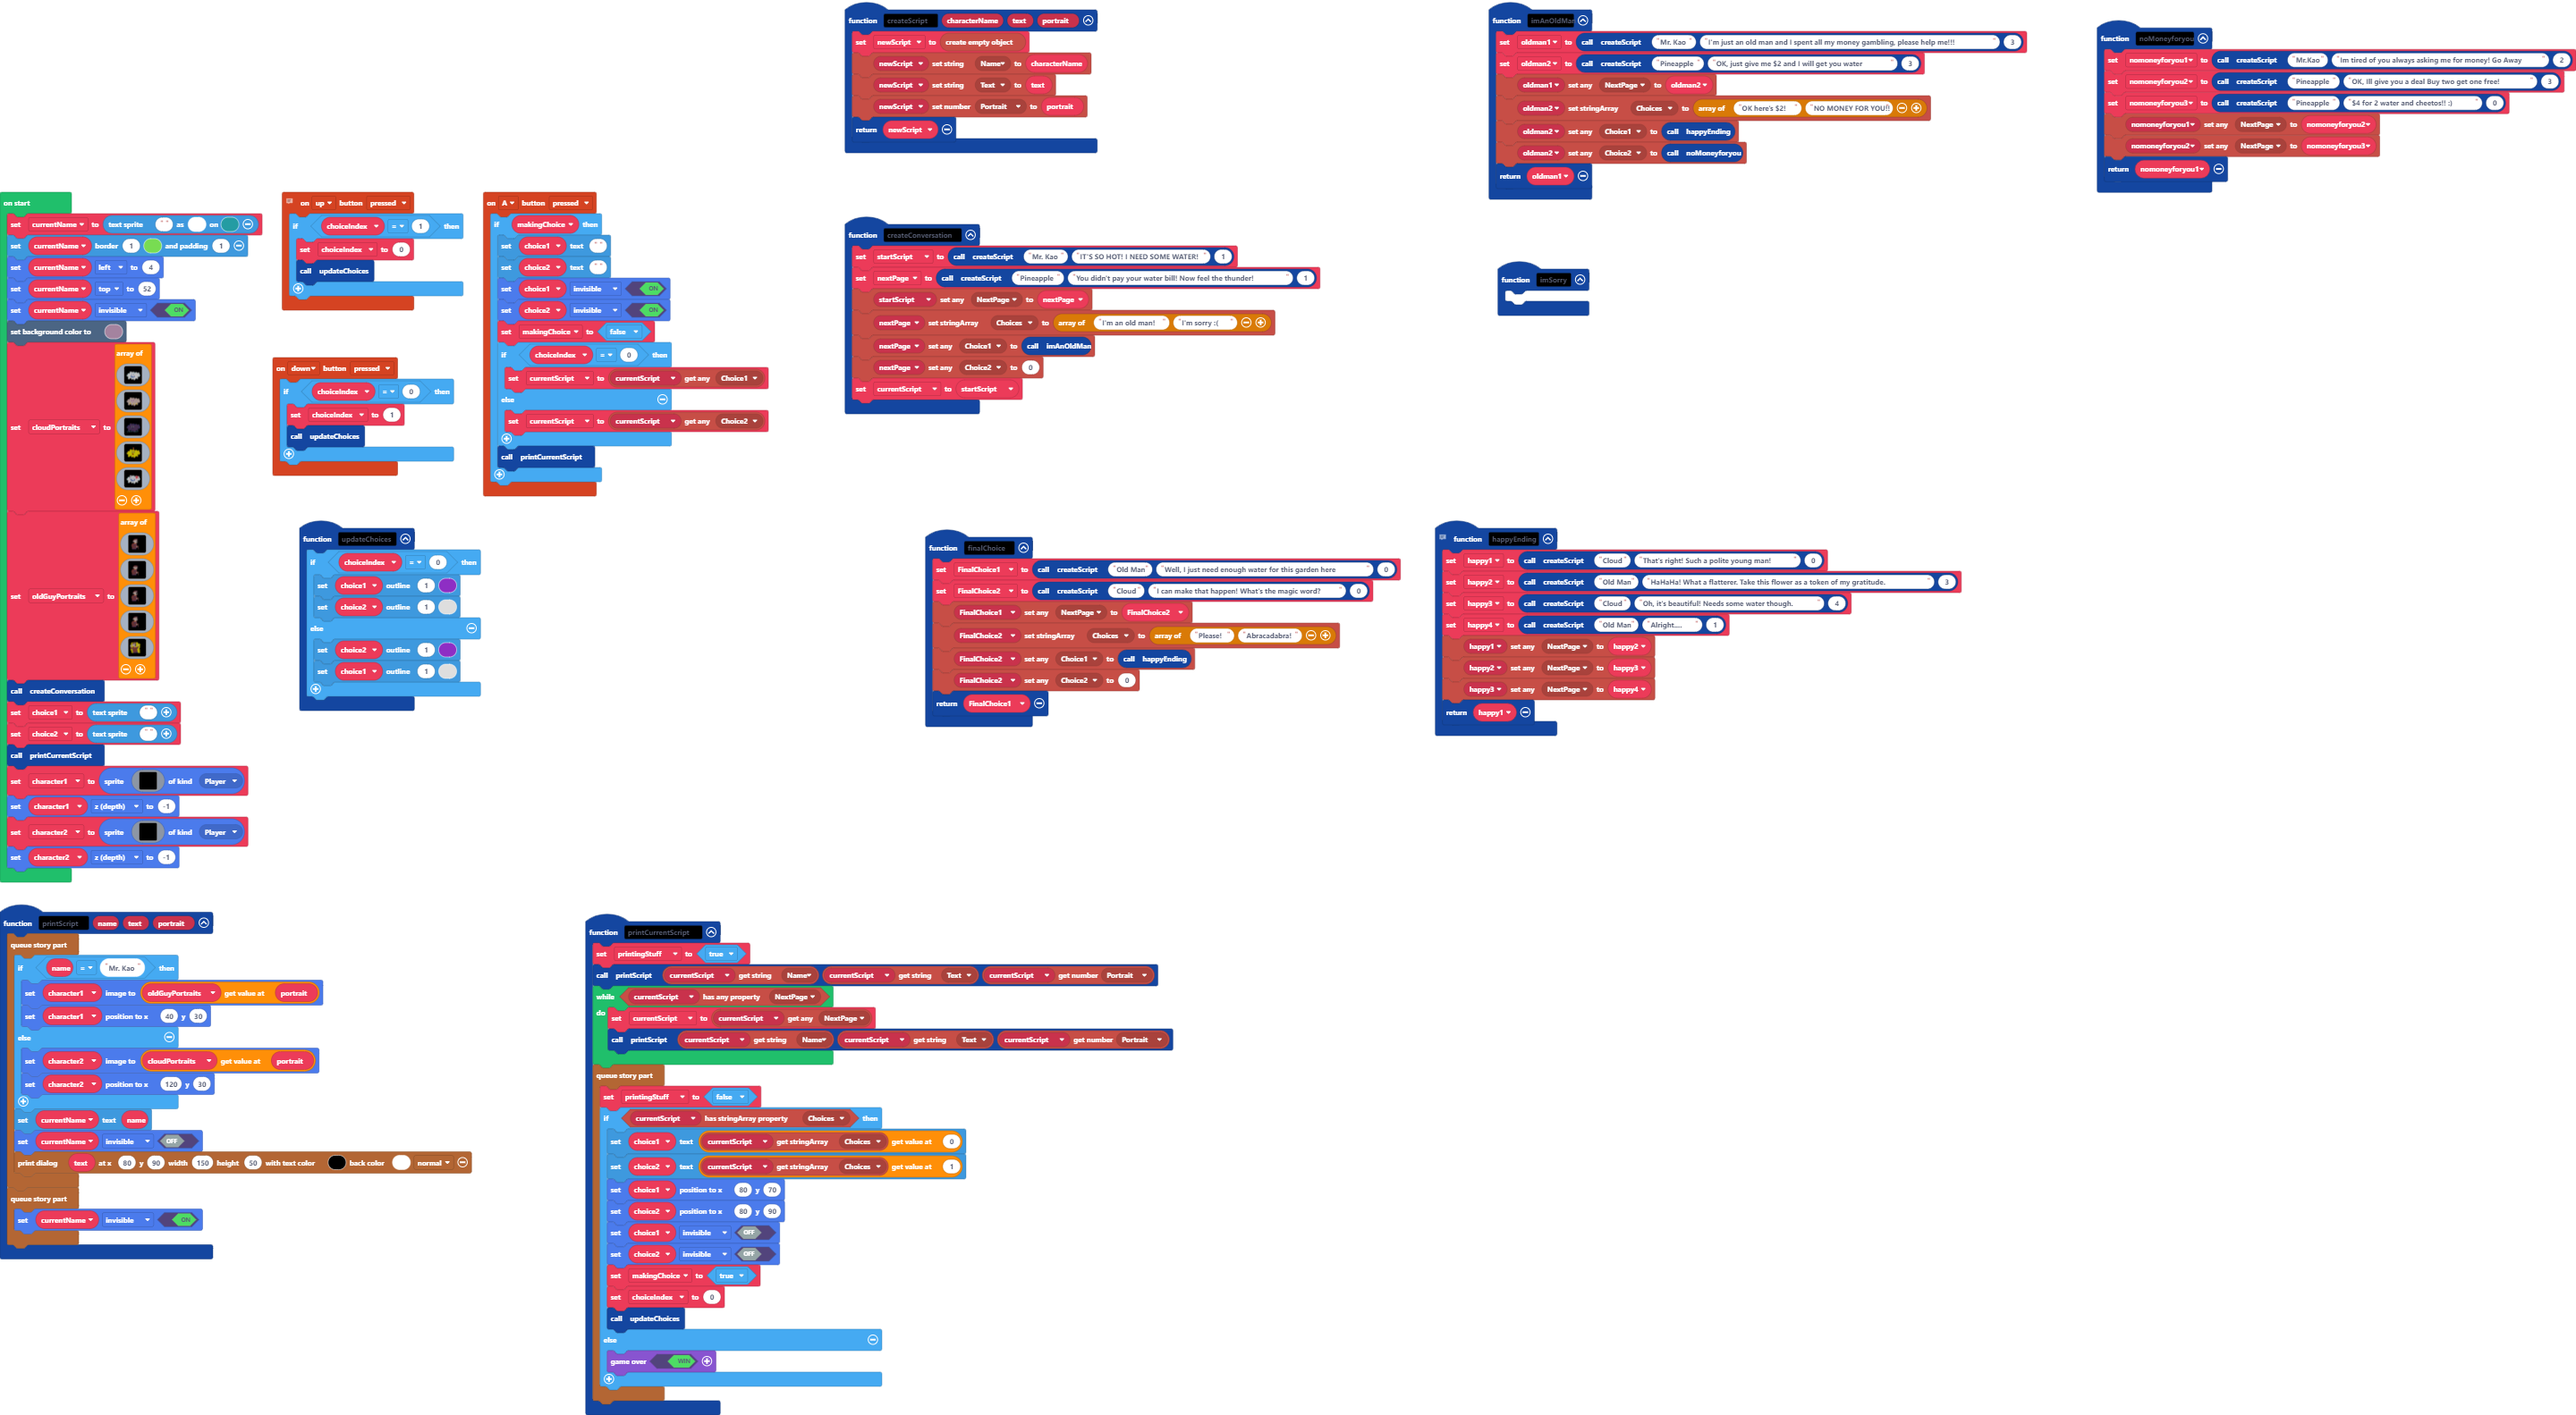
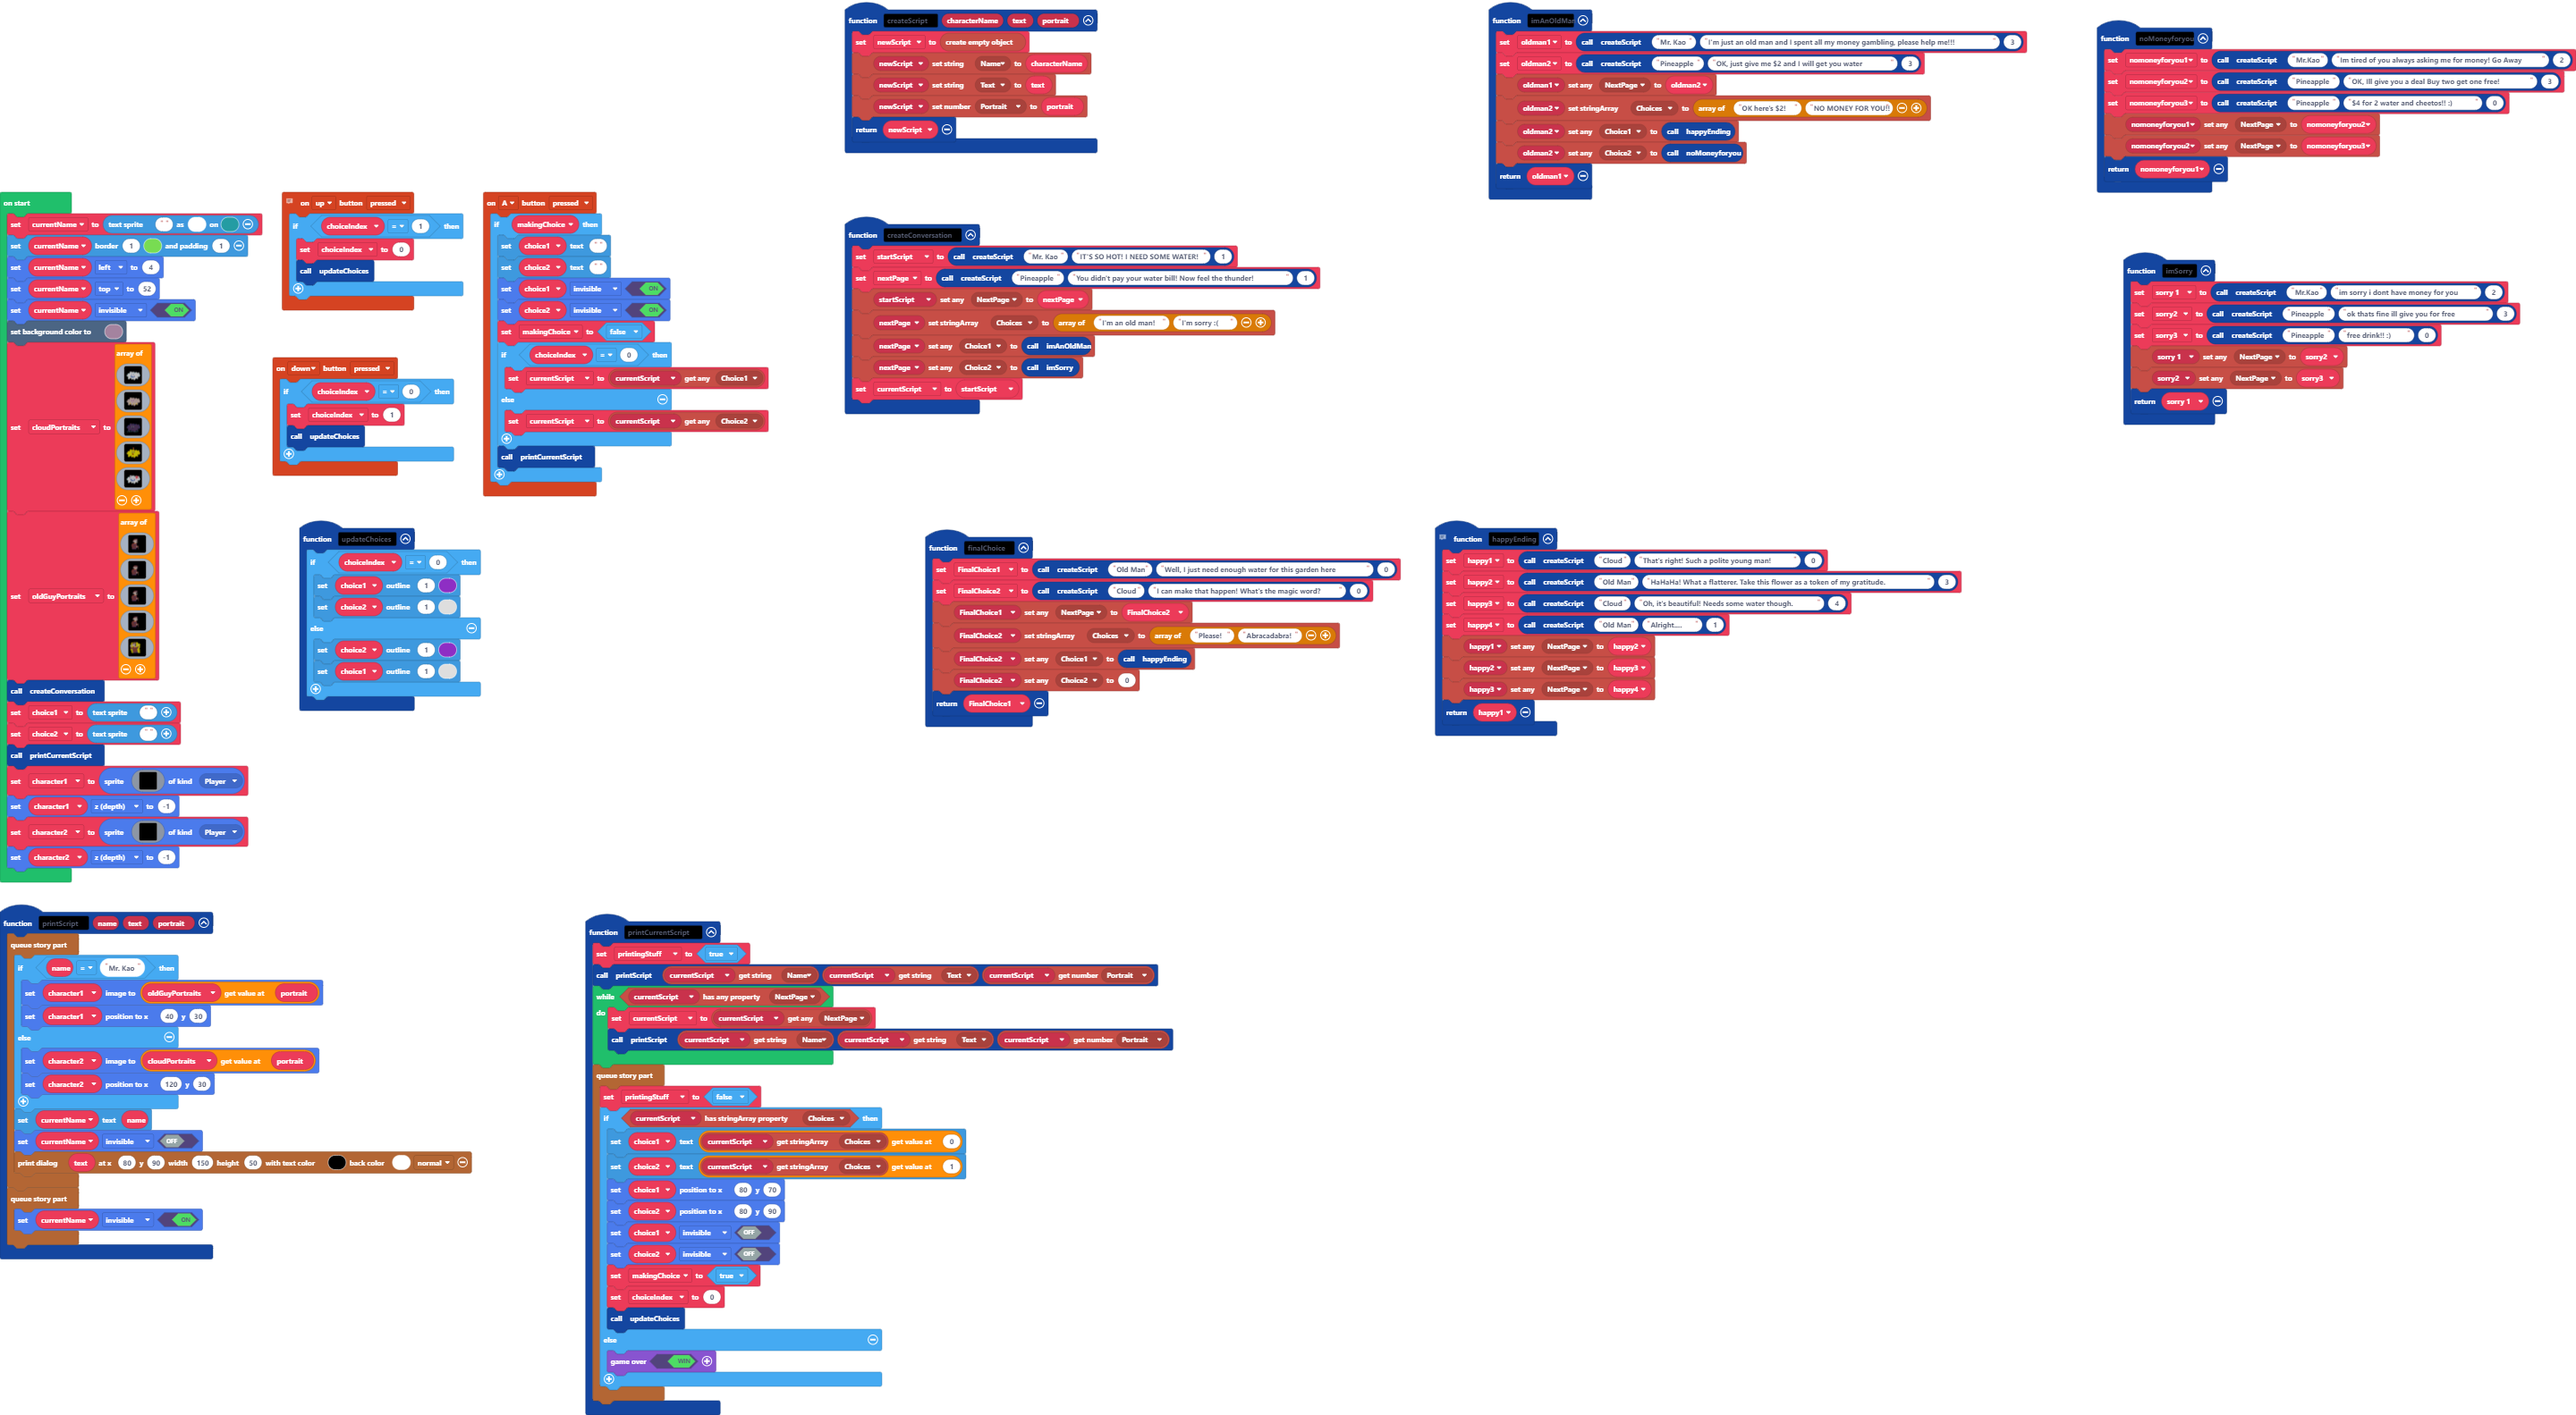
finished Im sorry

Changed region(s): [[0.8125, 0.1548, 0.9688, 0.3095], [0.5625, 0.1857, 0.625, 0.2476], [0.375, 0.2476, 0.4375, 0.2786]]

diff --git a/main.ts b/main.ts
@@ -44,7 +44,12 @@ function happyEnding () {
     return happy1
 }
 function imSorry () {
-	
+    sorry_1 = createScript("Mr.Kao", "im sorry i dont have money for you", 2)
+    sorry2 = createScript("Pineapple", "ok thats fine ill give you for free", 3)
+    sorry3 = createScript("Pineapple", "free drink!! :)", 0)
+    blockObject.setAnyProperty(sorry_1, AnyProp.NextPage, sorry2)
+    blockObject.setAnyProperty(sorry2, AnyProp.NextPage, sorry3)
+    return sorry_1
 }
 // microsoft/arcade-block-objects
 // 
@@ -61,7 +66,7 @@ function createConversation () {
     blockObject.setAnyProperty(startScript, AnyProp.NextPage, nextPage)
     blockObject.setStringArrayProperty(nextPage, StrArrayProp.Choices, ["I'm an old man!", "I'm sorry :("])
     blockObject.setAnyProperty(nextPage, AnyProp.Choice1, imAnOldMan())
-    blockObject.setAnyProperty(nextPage, AnyProp.Choice2, 0)
+    blockObject.setAnyProperty(nextPage, AnyProp.Choice2, imSorry())
     currentScript = startScript
 }
 function printScript (name: string, text: string, portrait: number) {
@@ -182,6 +187,9 @@ let currentScript: blockObject.BlockObject = null
 let nextPage: blockObject.BlockObject = null
 let startScript: blockObject.BlockObject = null
 let choiceIndex = 0
+let sorry3: blockObject.BlockObject = null
+let sorry2: blockObject.BlockObject = null
+let sorry_1: blockObject.BlockObject = null
 let happy4: blockObject.BlockObject = null
 let happy3: blockObject.BlockObject = null
 let happy2: blockObject.BlockObject = null
